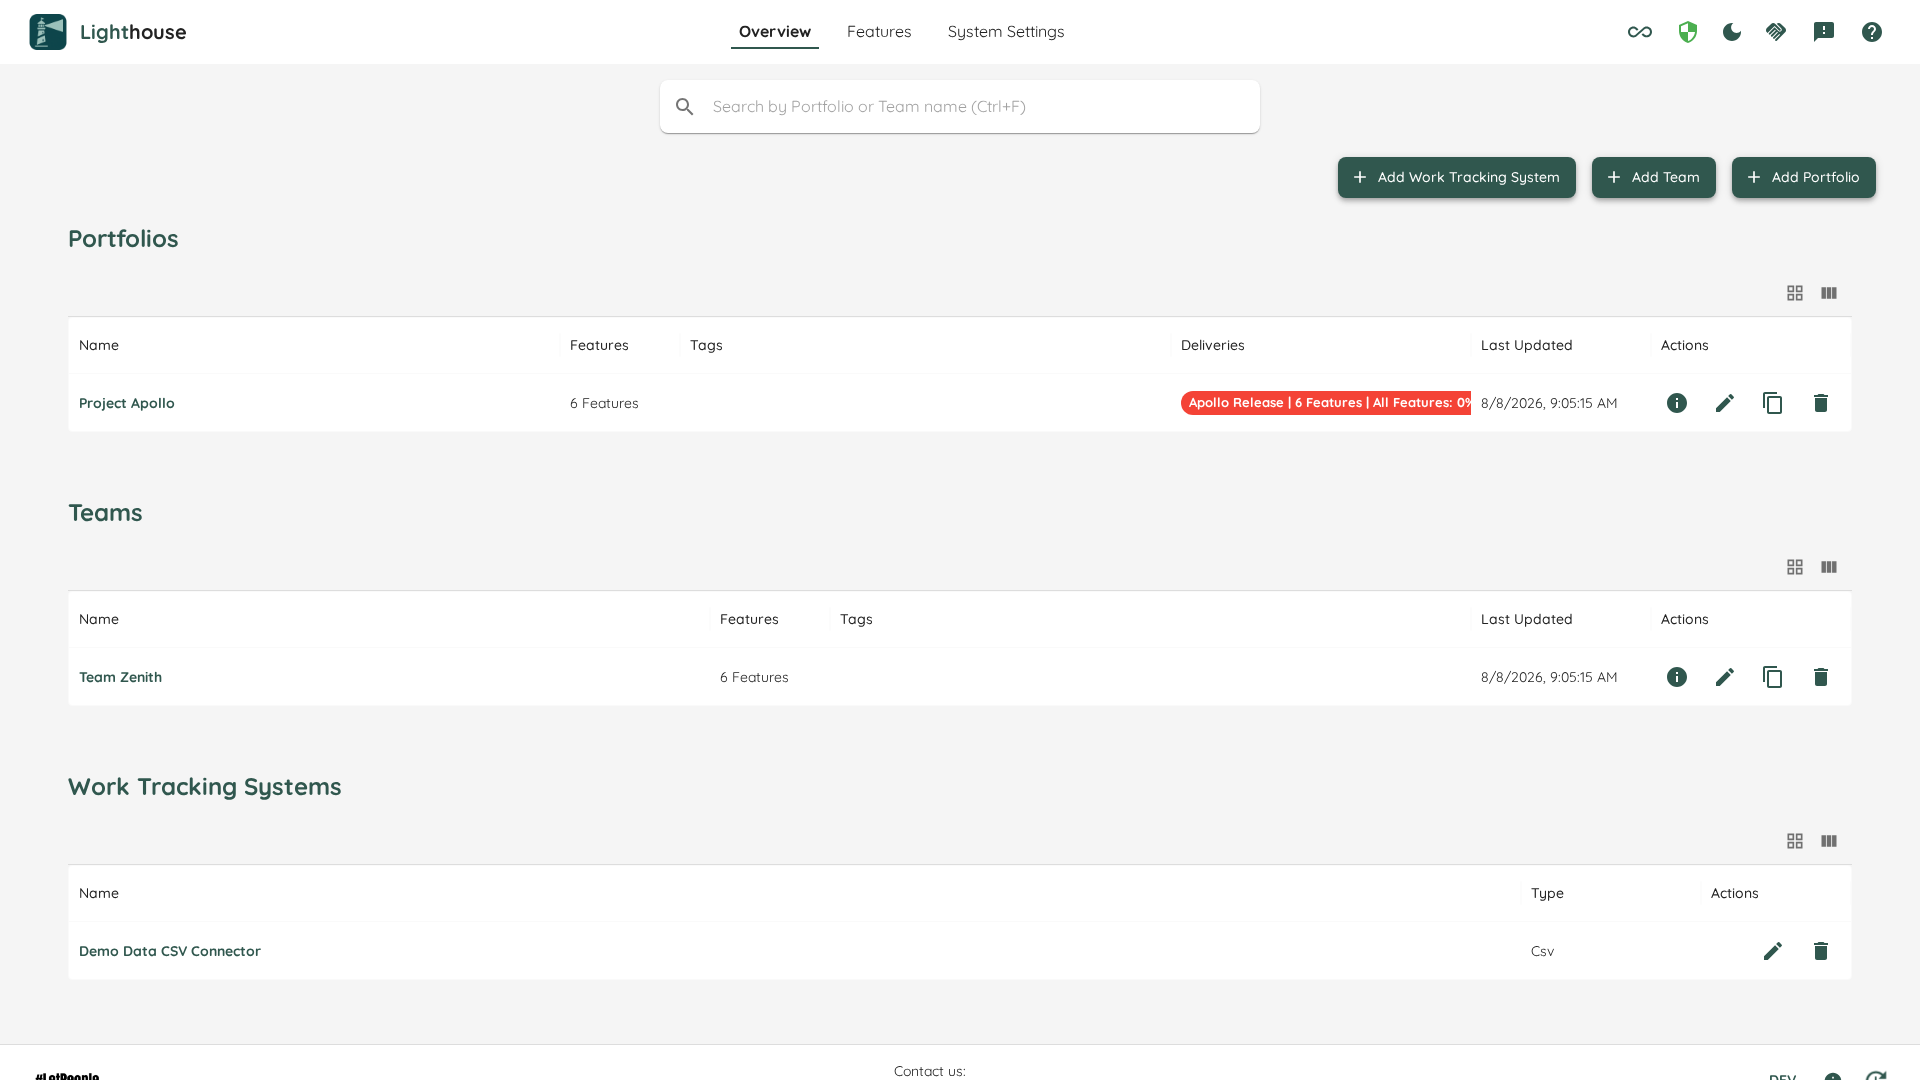
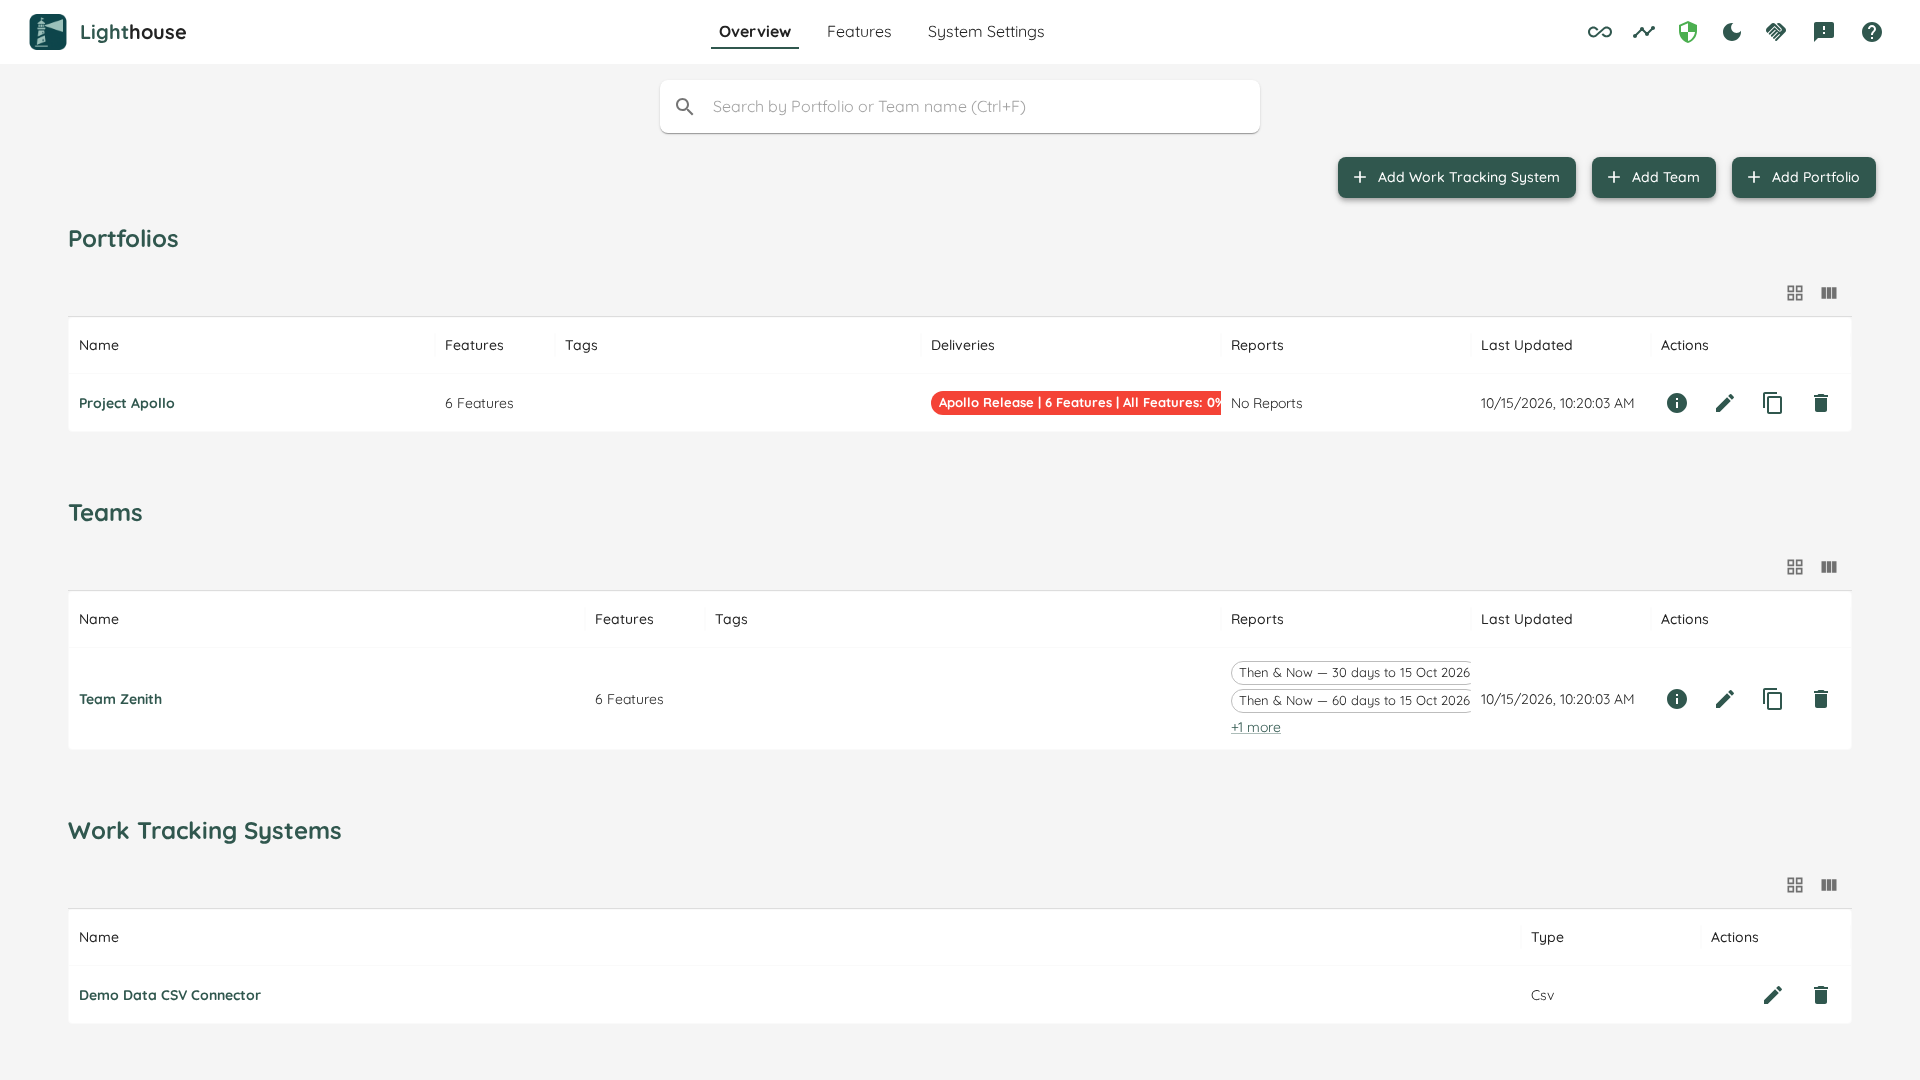
test(reports): @screenshot the Reports tab, a Then & Now report, the wizard and the Overview chips (epic 5878)
Two new @screenshot tests on Team Lightspeed (demo scenario 11): one creates a
report whose 30-day Then ended 45 days ago, so the report shows real changes,
and shoots the report and the Reports tab; the other shoots the wizard on its
Then step. The populated-overview test now gives its Team three reports first,
so overview.png shows two chips and "+1 more".

ReportsListPage gains createReport(choices) with optional Then end and length,
plus openCreateReport and goToThenStep; ReportPage gains backToReports, since
the Reports tab is already selected on a report and clicking it does nothing.

Claude-Session: https://claude.ai/code/session_01K5MeaVf8CyrpX21aDeKzwC

diff --git a/Lighthouse.EndToEndTests/tests/specs/screenshots/Screenshots.spec.ts b/Lighthouse.EndToEndTests/tests/specs/screenshots/Screenshots.spec.ts
@@ -291,15 +291,27 @@ testWithDemo(
 	},
 );
 
-// The populated overview, illustrating docs/teams/teams.md and docs/portfolios/portfolios.md. It had
-// been a hand-committed PNG with no test behind it, so it could not be regenerated when the top
-// navigation changed. "installation/landingpage.png" is the same page before any data exists.
+// The populated overview, illustrating docs/teams/teams.md and docs/portfolios/portfolios.md.
+// "installation/landingpage.png" is the same page before any data exists. The Team gets three reports
+// so its Reports cell shows what the docs describe: two chips, then "+1 more".
 testWithDemo(
 	"Take @screenshot of the populated overview page",
 	async ({ testData, overviewPage }) => {
 		expect(testData.teams.length).toBeGreaterThan(0);
+		const teamName = testData.teams[0].name;
 
 		await overviewPage.lightHousePage.goToOverview();
+		const team = await overviewPage.goToTeam(teamName);
+		let reports = await team.goToReports();
+		for (const thenDays of [90, 30, 60]) {
+			const report = await reports.createReport({ thenDays });
+			reports = await report.backToReports();
+		}
+
+		await overviewPage.lightHousePage.goToOverview();
+		await expect(overviewPage.teamReportsCell(teamName)).toContainText(
+			"+1 more",
+		);
 
 		await takePageScreenshot(overviewPage.page, "features/overview.png", 3);
 	},
@@ -648,6 +660,53 @@ testWithOldItems(
 			teamEdit.refinementSection,
 			"features/refinement_settings.png",
 		);
+	},
+);
+
+// Lightspeed's history is long enough for a Then that ended weeks ago, so Then and Now cover different
+// days and the report shows real changes rather than "No change" on every line.
+const REPORTING_TEAM = "Team Lightspeed";
+const DAY_IN_MILLISECONDS = 24 * 60 * 60 * 1000;
+
+testWithOldItems(
+	"Take @screenshot of the Reports tab and a Then & Now report",
+	async ({ testData, overviewPage }) => {
+		expect(testData.teams.map((team) => team.name)).toContain(REPORTING_TEAM);
+
+		await overviewPage.lightHousePage.goToOverview();
+		const teamDetail = await overviewPage.goToTeam(REPORTING_TEAM);
+		const reports = await teamDetail.goToReports();
+		const report = await reports.createReport({
+			thenEndsOn: new Date(Date.now() - 45 * DAY_IN_MILLISECONDS),
+			thenDays: 30,
+		});
+
+		await expect(report.panel("Cycle Time")).toBeVisible();
+		await takePageScreenshot(
+			teamDetail.page,
+			"features/report_thenandnow.png",
+			3,
+		);
+
+		const name = await report.readName();
+		const list = await report.backToReports();
+		await expect(list.reportLink(name)).toBeVisible();
+		await takePageScreenshot(teamDetail.page, "features/reports.png", 3);
+	},
+);
+
+testWithOldItems(
+	"Take @screenshot of the Create Report wizard",
+	async ({ testData, overviewPage }) => {
+		expect(testData.teams.map((team) => team.name)).toContain(REPORTING_TEAM);
+
+		await overviewPage.lightHousePage.goToOverview();
+		const teamDetail = await overviewPage.goToTeam(REPORTING_TEAM);
+		const reports = await teamDetail.goToReports();
+		await reports.openCreateReport();
+		const wizard = await reports.goToThenStep();
+
+		await takeDialogScreenshot(wizard, "features/report_wizard.png");
 	},
 );
 

diff --git a/Lighthouse.EndToEndTests/tests/models/reports/ReportsListPage.ts b/Lighthouse.EndToEndTests/tests/models/reports/ReportsListPage.ts
@@ -1,10 +1,17 @@
 import type { Locator, Page } from "@playwright/test";
+import { formatLocalDate } from "../../helpers/dates";
 import { ReportPage } from "./ReportPage";
 
+/** What a Then & Now report is created with; anything left out stays as the wizard opens it. */
+export interface ThenAndNowChoices {
+	thenEndsOn?: Date;
+	thenDays?: number;
+}
+
 /**
- * The Reports tab of a Team or a Portfolio, and the wizard that creates a report from it. The wizard is
- * walked with every step left as it opens, which for Then & Now is Then the 90 days ending today, Now as
- * long, and all four metrics.
+ * The Reports tab of a Team or a Portfolio, and the wizard that creates a report from it. Left as it
+ * opens, the wizard creates a Then & Now report whose Then is the 90 days ending today, with Now as long
+ * and all four metrics.
  */
 export class ReportsListPage {
 	constructor(private readonly page: Page) {}
@@ -33,23 +40,54 @@ export class ReportsListPage {
 		return this.page.getByRole("link", { name });
 	}
 
-	async createTheDefaultReport(): Promise<ReportPage> {
+	/** Opens the wizard on its Type step. */
+	async openCreateReport(): Promise<Locator> {
 		await this.waitUntilReady();
 		await this.createReportButton.click();
-		// Each step is waited for by what it says, so a step that never appears fails here, not later.
-		const whatEachStepSays = [
-			/Set today's flow against a window that stays as it was\./,
-			/^= \d{1,2} \w{3,4}/,
-			/always ending today/,
-		];
-		for (const says of whatEachStepSays) {
-			await this.wizard.getByText(says).waitFor();
-			await this.wizard.getByRole("button", { name: "Next" }).click();
+		await this.wizard
+			.getByText(/Set today's flow against a window that stays as it was\./)
+			.waitFor();
+		return this.wizard;
+	}
+
+	/** From the Type step to the Then step, which names the days its window covers. */
+	async goToThenStep(): Promise<Locator> {
+		await this.nextStep();
+		await this.wizard.getByText(/^= \d{1,2} \w{3,4}/).waitFor();
+		return this.wizard;
+	}
+
+	async createTheDefaultReport(): Promise<ReportPage> {
+		return this.createReport({});
+	}
+
+	async createReport(choices: ThenAndNowChoices): Promise<ReportPage> {
+		await this.openCreateReport();
+		await this.goToThenStep();
+
+		if (choices.thenEndsOn !== undefined) {
+			await this.wizard
+				.getByLabel("Then ends on")
+				.fill(formatLocalDate(choices.thenEndsOn));
 		}
+		if (choices.thenDays !== undefined) {
+			await this.wizard
+				.getByLabel("Then length in days")
+				.fill(String(choices.thenDays));
+		}
+
+		await this.nextStep();
+		await this.wizard.getByText(/always ending today/).waitFor();
+		await this.nextStep();
+
 		await this.wizard
 			.getByRole("button", { name: "Create", exact: true })
 			.click();
 		await this.page.waitForURL(/\/(teams|portfolios)\/\d+\/reports\/\d+$/);
 		return new ReportPage(this.page).waitUntilReady();
+	}
+
+	private async nextStep(): Promise<void> {
+		await this.wizard.getByRole("button", { name: "Next" }).click();
 	}
 }

diff --git a/Lighthouse.EndToEndTests/tests/models/reports/ReportPage.ts b/Lighthouse.EndToEndTests/tests/models/reports/ReportPage.ts
@@ -1,4 +1,5 @@
 import type { Locator, Page } from "@playwright/test";
+import { ReportsListPage } from "./ReportsListPage";
 
 /**
  * One report as a reader sees it. It is ready once the page marks the report itself as read; waiting for
@@ -26,6 +27,16 @@ export class ReportPage {
 
 	async readName(): Promise<string> {
 		return ((await this.title.textContent()) ?? "").trim();
+	}
+
+	/** The breadcrumb's "Reports" leads back to the list; the Reports tab is already selected here. */
+	async backToReports(): Promise<ReportsListPage> {
+		await this.page
+			.getByRole("navigation", { name: "breadcrumb" })
+			.getByRole("link", { name: "Reports", exact: true })
+			.click();
+		await this.page.waitForURL(/\/(teams|portfolios)\/\d+\/reports$/);
+		return new ReportsListPage(this.page).waitUntilReady();
 	}
 
 	panel(title: string): Locator {
